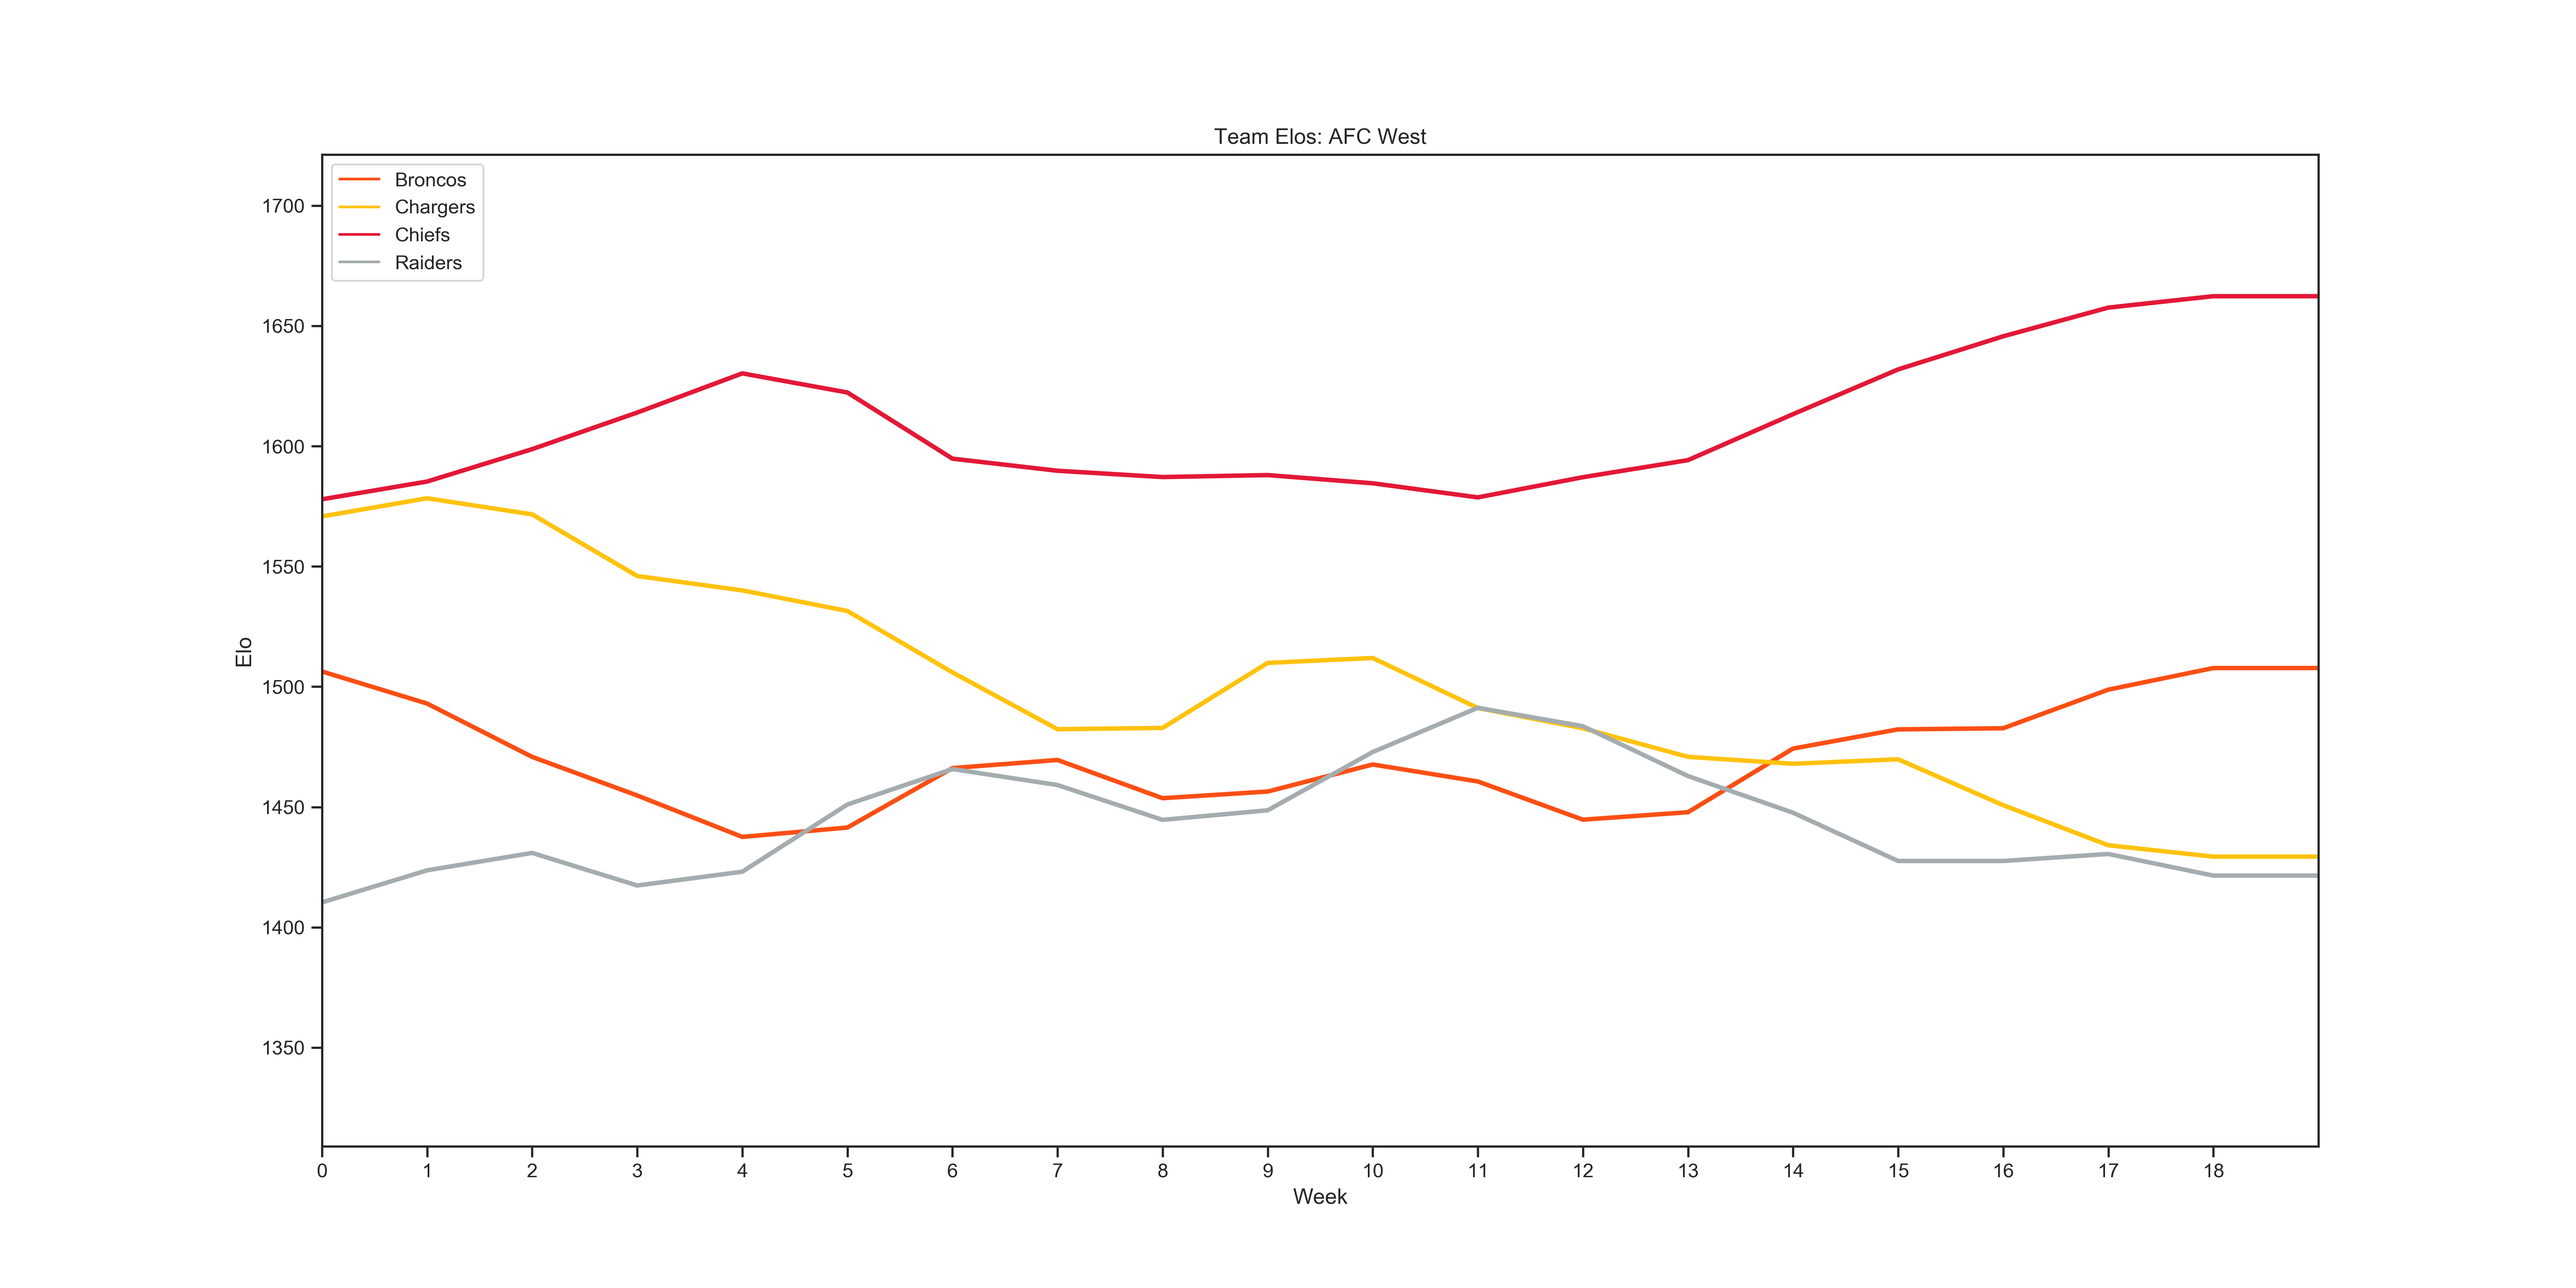
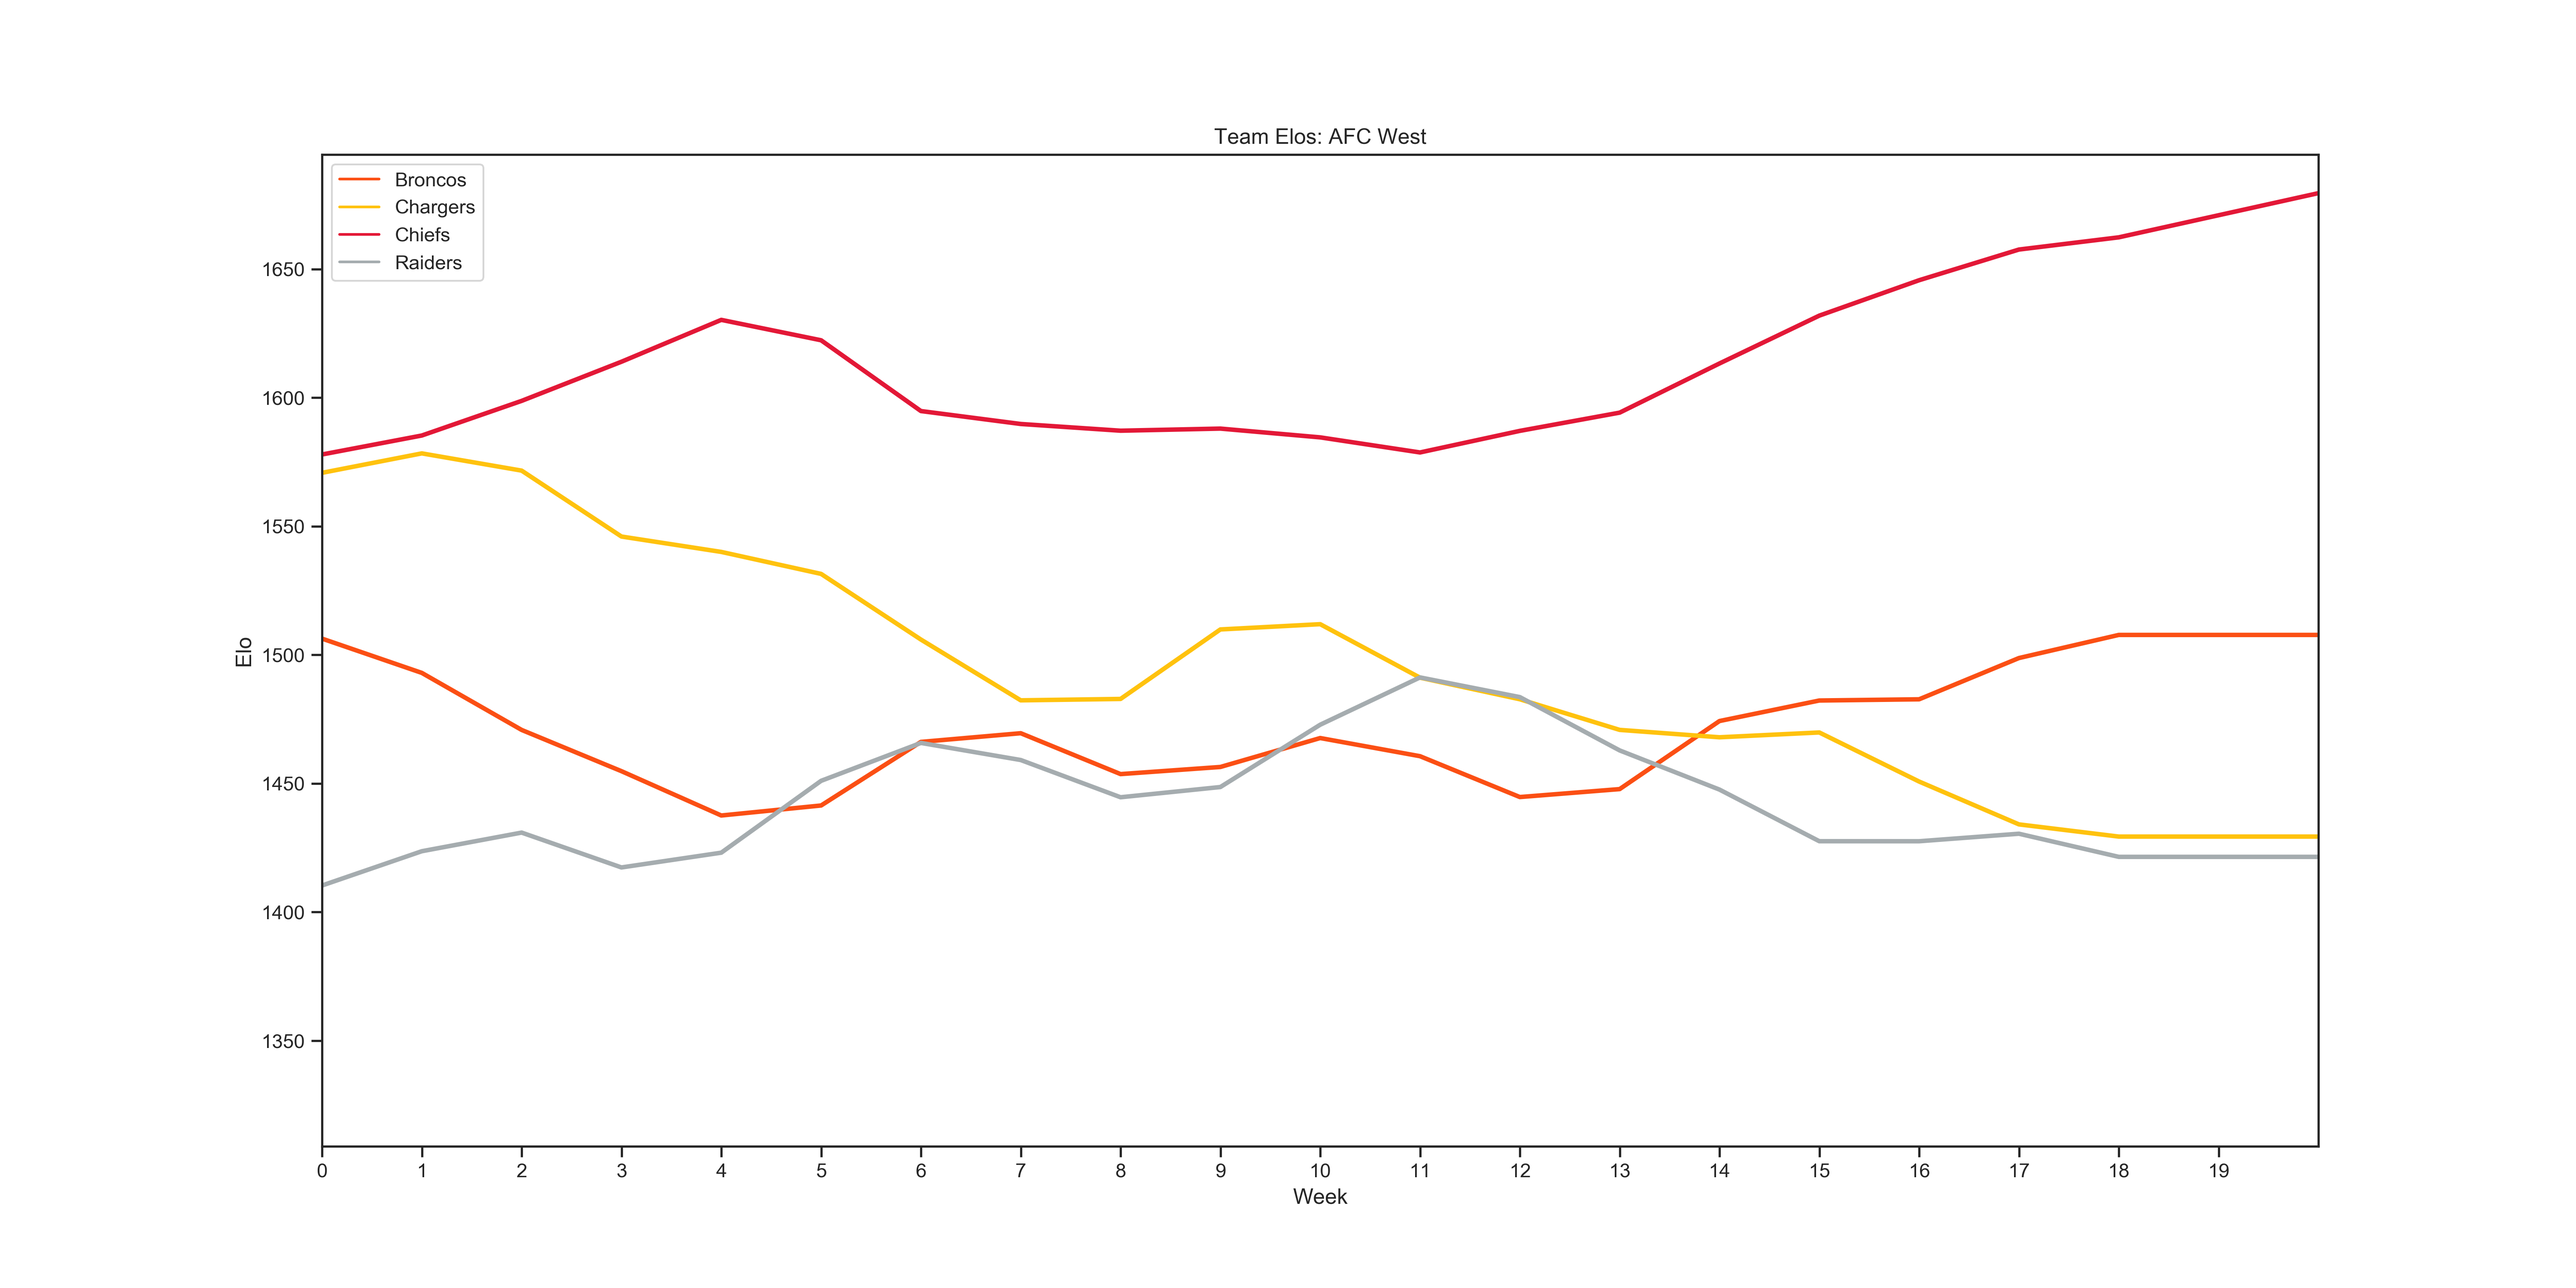
Completed divisional round

diff --git a/NFLSeason2019.py b/NFLSeason2019.py
@@ -92,7 +92,7 @@ def season():
     nfl_teams = handle_week(nfl_teams, 'Wildcard Weekend', wildcard, eliminated_teams, '31 December 2019')
     eliminated_teams.extend(['Patriots', 'Bills', 'Saints', 'Eagles'])
     nfl_teams = handle_week(nfl_teams, 'Divisional Round', divisional, eliminated_teams, '7 January 2020')
-    eliminated_teams.extend(['', '', '', ''])
+    eliminated_teams.extend(['Vikings', 'Ravens', 'Texans', 'Seahawks'])
     nfl_teams = handle_week(nfl_teams, 'Conference Finals', conference, eliminated_teams, '14 January 2020')
     eliminated_teams.extend(['', ''])
     nfl_teams = handle_week(nfl_teams, 'Superbowl', superbowl, eliminated_teams, '28 January 2020')
@@ -1726,39 +1726,39 @@ def divisional(teams, week_end_date, week=19):
             Standings.compare_teams(teams, home_team, away_team)
 
     # Results
-    # teams = set_game_outcome(teams,
-    #                          week=week,
-    #                          spread=0,
-    #                          home_name='Ravens',
-    #                          home_score=0,
-    #                          home_touchdowns=0,
-    #                          home_net_pass_yards=0,
-    #                          home_pass_completions=0,
-    #                          home_pass_attempts=0,
-    #                          home_pass_tds=0,
-    #                          home_interceptions_thrown=0,
-    #                          home_total_yards=0,
-    #                          away_name='Titans',
-    #                          away_score=0,
-    #                          away_touchdowns=0,
-    #                          away_net_pass_yards=0,
-    #                          away_pass_completions=0,
-    #                          away_pass_attempts=0,
-    #                          away_pass_tds=0,
-    #                          away_interceptions_thrown=0,
-    #                          away_total_yards=0)
-    #
-    # teams = set_game_outcome(teams, week, 0,
-    #                          'Chiefs', 0, 0, 0, 0, 0, 0, 0, 0,
-    #                          'Texans', 0, 0, 0, 0, 0, 0, 0, 0)
-    #
-    # teams = set_game_outcome(teams, week, 0,
-    #                          '49ers', 0, 0, 0, 0, 0, 0, 0, 0,
-    #                          'Vikings', 0, 0, 0, 0, 0, 0, 0, 0)
-    #
-    # teams = set_game_outcome(teams, week, 0,
-    #                          'Packers', 0, 0, 0, 0, 0, 0, 0, 0,
-    #                          'Seahawks', 0, 0, 0, 0, 0, 0, 0, 0)
+    teams = set_game_outcome(teams,
+                             week=week,
+                             spread=-10,
+                             home_name='Ravens',
+                             home_score=12,
+                             home_touchdowns=1,
+                             home_net_pass_yards=345,
+                             home_pass_completions=31,
+                             home_pass_attempts=59,
+                             home_pass_tds=1,
+                             home_interceptions_thrown=2,
+                             home_total_yards=530,
+                             away_name='Titans',
+                             away_score=28,
+                             away_touchdowns=4,
+                             away_net_pass_yards=83,
+                             away_pass_completions=8,
+                             away_pass_attempts=15,
+                             away_pass_tds=3,
+                             away_interceptions_thrown=0,
+                             away_total_yards=300)
+
+    teams = set_game_outcome(teams, week, -7,
+                             '49ers', 27, 3, 122, 11, 19, 1, 1, 308,
+                             'Vikings', 10, 1, 126, 21, 29, 1, 1, 147)
+
+    teams = set_game_outcome(teams, week, -10,
+                             'Chiefs', 51, 7, 316, 23, 35, 5, 0, 434,
+                             'Texans', 31, 3, 348, 31, 52, 2, 0, 442)
+
+    teams = set_game_outcome(teams, week, -4.5,
+                             'Packers', 28, 4, 235, 16, 27, 2, 0, 344,
+                             'Seahawks', 23, 3, 265, 21, 31, 1, 0, 375)
 
     return teams
 
@@ -1775,7 +1775,7 @@ def conference(teams, week_end_date, week=20):
     # teams = set_game_outcome(teams,
     #                          week=week,
     #                          spread=0,
-    #                          home_name='',
+    #                          home_name='49ers',
     #                          home_score=0,
     #                          home_touchdowns=0,
     #                          home_net_pass_yards=0,
@@ -1784,7 +1784,7 @@ def conference(teams, week_end_date, week=20):
     #                          home_pass_tds=0,
     #                          home_interceptions_thrown=0,
     #                          home_total_yards=0,
-    #                          away_name='',
+    #                          away_name='Packers',
     #                          away_score=0,
     #                          away_touchdowns=0,
     #                          away_net_pass_yards=0,
@@ -1795,8 +1795,8 @@ def conference(teams, week_end_date, week=20):
     #                          away_total_yards=0)
     #
     # teams = set_game_outcome(teams, week, 0,
-    #                          '', 0, 0, 0, 0, 0, 0, 0, 0,
-    #                          '', 0, 0, 0, 0, 0, 0, 0, 0)
+    #                          'Chiefs', 0, 0, 0, 0, 0, 0, 0, 0,
+    #                          'Titans', 0, 0, 0, 0, 0, 0, 0, 0)
 
     return teams
 

diff --git a/PlayoffHelper.py b/PlayoffHelper.py
@@ -619,8 +619,8 @@ def get_conference_schedule(week_end_date, get_odds=True):
 
     games = list()
     # Games are listed as: Home Team, Away Team, Spread if Home is favored (-1 * spread otherwise), neutral location
-    games.append(create_match_up('', '', odds=odds))
-    games.append(create_match_up('', '', odds=odds))
+    games.append(create_match_up('49ers', 'Packers', odds=odds))
+    games.append(create_match_up('Chiefs', 'Titans', odds=odds))
 
     return games
 
